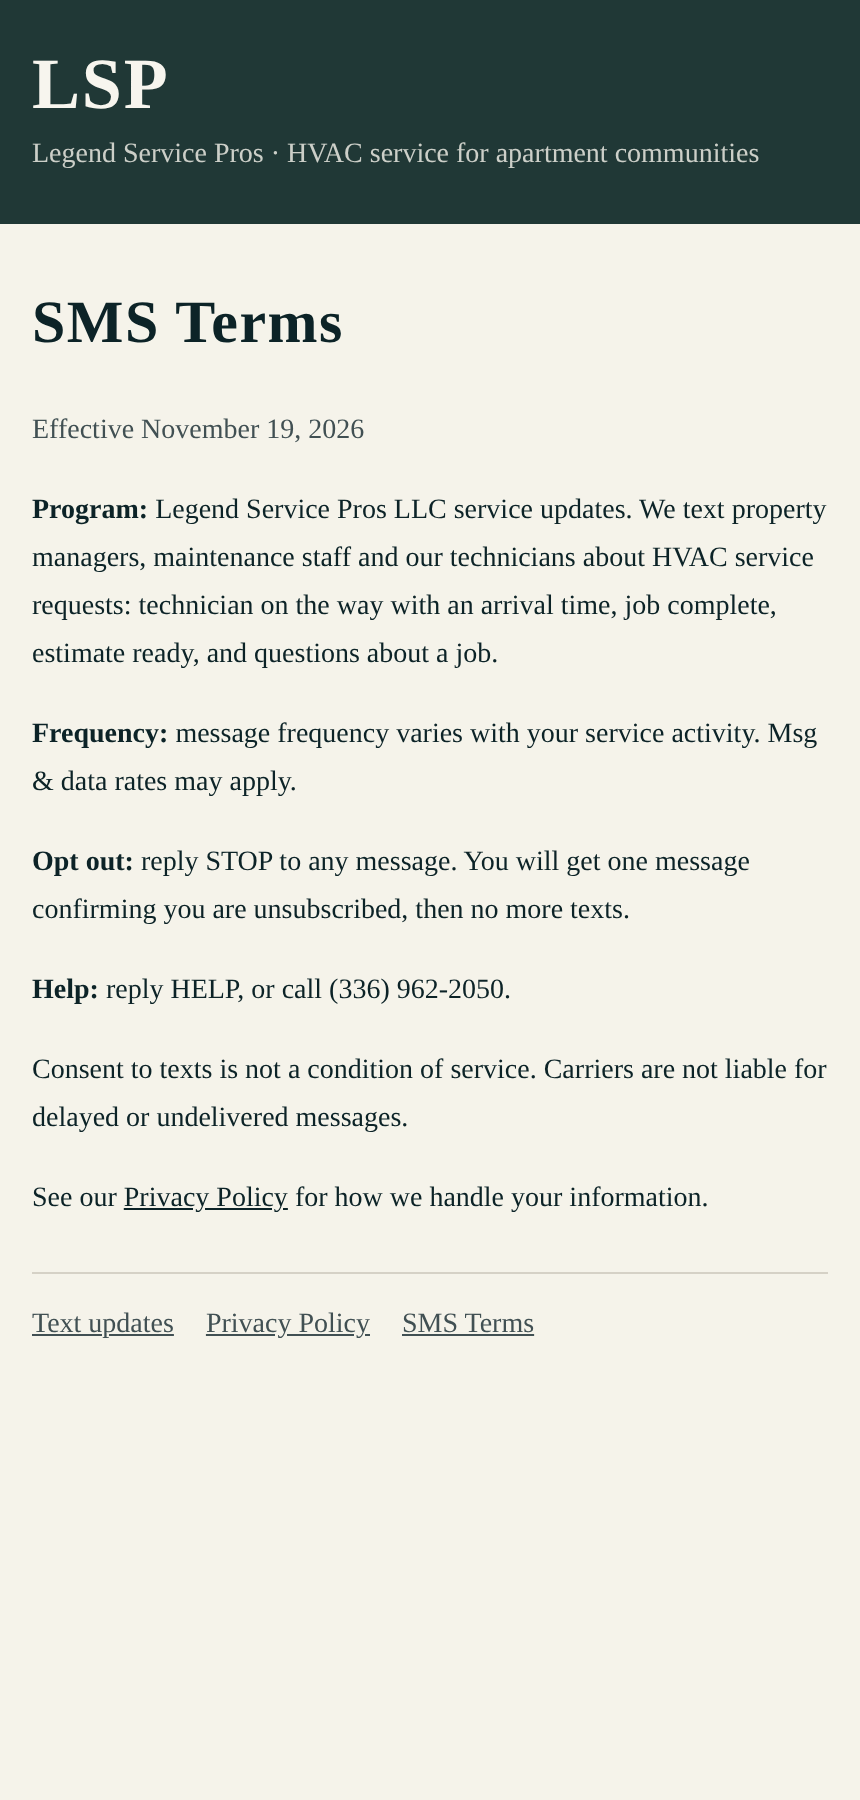
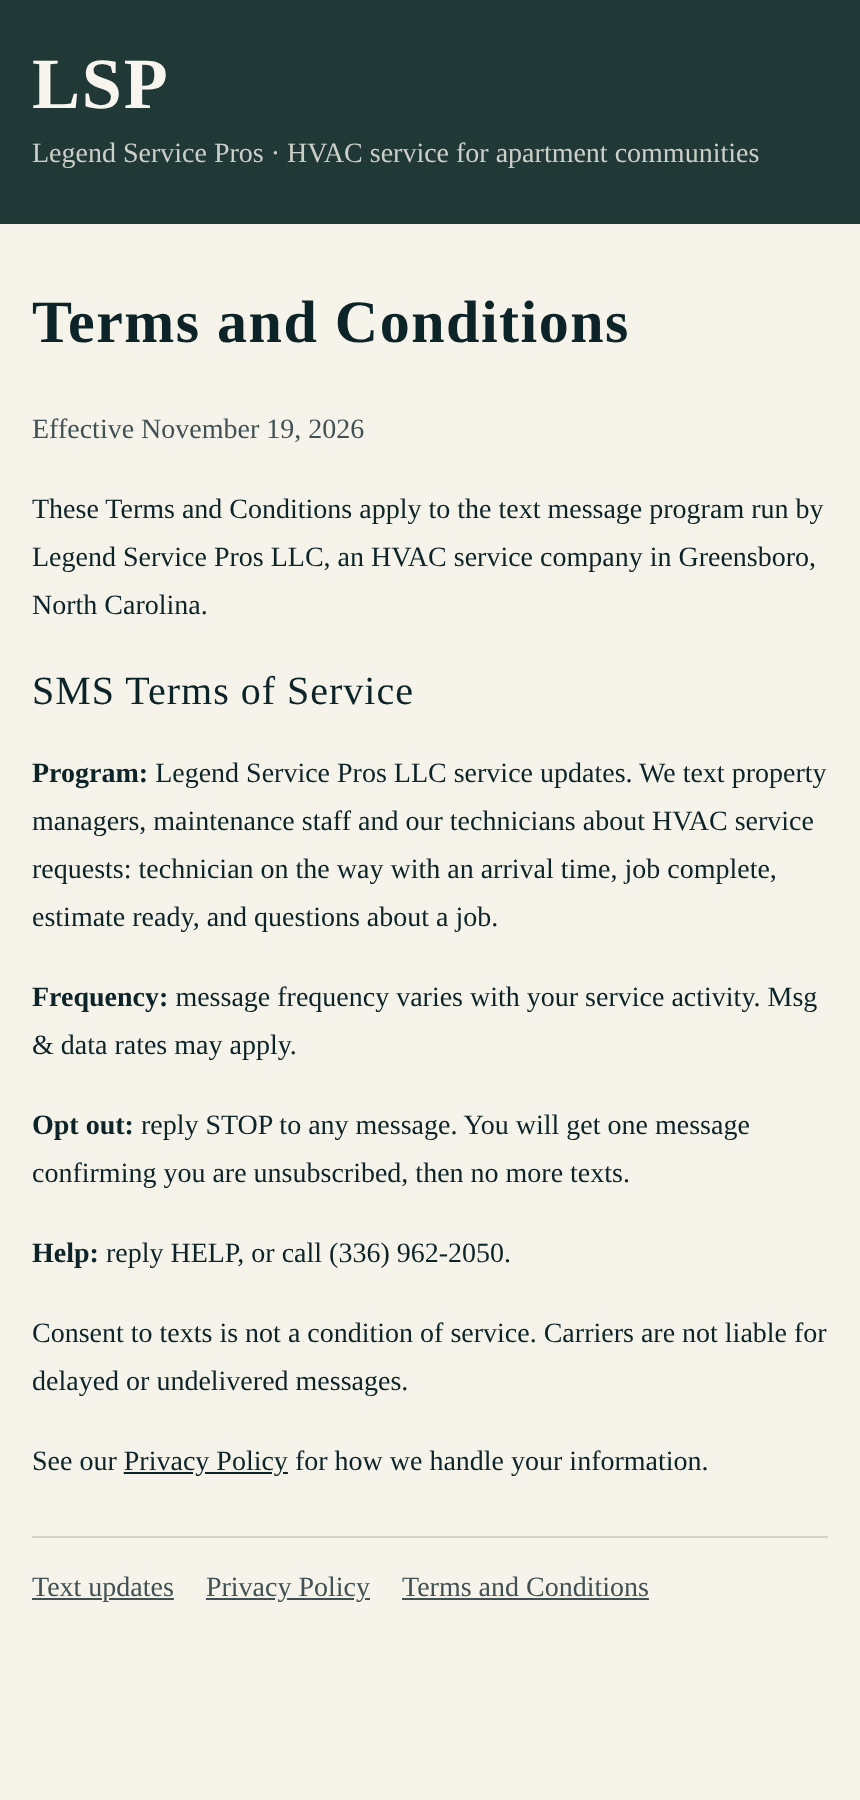
Title the SMS terms page "Terms and Conditions" (#4)
Twilio's campaign check looks for a "Terms and Conditions" or "Terms of
Service" heading. Renames the page and its links, bumps the consent
wording version, and refreshes the hosted screenshots.

Claude-Session: https://claude.ai/code/session_017TzFJN7Uq9Ud7P7b8VoD7k

diff --git a/app/terms/page.tsx b/app/terms/page.tsx
@@ -5,14 +5,22 @@ import { PublicPage } from "@/components/public-page"
 import { SMS_BRAND, SMS_SUPPORT_PHONE } from "@/lib/sms-consent"
 
 export const metadata: Metadata = {
-  title: "SMS Terms",
+  title: "Terms and Conditions",
 }
 
 export default function TermsPage() {
   return (
-    <PublicPage title="SMS Terms">
+    <PublicPage title="Terms and Conditions">
       <div className="flex flex-col gap-4 text-sm leading-6">
         <p className="text-muted-foreground">Effective November 19, 2026</p>
+        <p>
+          These Terms and Conditions apply to the text message program run by
+          {" "}Legend Service Pros LLC, an HVAC service company in Greensboro,
+          North Carolina.
+        </p>
+        <h2 className="font-display text-xl tracking-wide">
+          SMS Terms of Service
+        </h2>
         <p>
           <strong>Program:</strong> {SMS_BRAND} service updates. We text property
           managers, maintenance staff and our technicians about HVAC service

diff --git a/lib/sms-consent.ts b/lib/sms-consent.ts
@@ -7,14 +7,14 @@
 export const SMS_BRAND = "Legend Service Pros LLC"
 export const SMS_SUPPORT_PHONE = "(336) 962-2050"
 
-export const SMS_CONSENT_VERSION = "2026-11-19"
+export const SMS_CONSENT_VERSION = "2026-11-19.2"
 
 export const SMS_CONSENT_TEXT =
   "Yes, text me service updates from Legend Service Pros LLC about HVAC service " +
   "requests at my property, such as a technician on the way, a job complete, or " +
   "an estimate ready. Message frequency varies. Msg & data rates may apply. " +
   "Reply STOP to opt out at any time, HELP for help. Consent is not a condition " +
-  "of service. See our Privacy Policy and SMS Terms."
+  "of service. See our Privacy Policy and Terms and Conditions."
 
 /** Returns +1XXXXXXXXXX for a valid US number, otherwise null. */
 export function normalizeUsMobile(raw: string): string | null {

diff --git a/components/text-updates-form.tsx b/components/text-updates-form.tsx
@@ -88,7 +88,7 @@ export function TextUpdatesForm() {
           </Link>{" "}
           and{" "}
           <Link href="/terms" className="font-medium underline">
-            SMS Terms
+            Terms and Conditions
           </Link>
           .
         </span>

diff --git a/components/public-page.tsx b/components/public-page.tsx
@@ -31,7 +31,7 @@ export function PublicPage({
             Privacy Policy
           </Link>
           <Link href="/terms" className="underline">
-            SMS Terms
+            Terms and Conditions
           </Link>
         </nav>
       </div>
